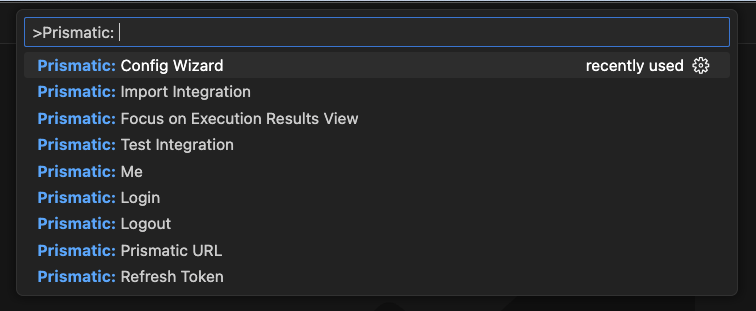
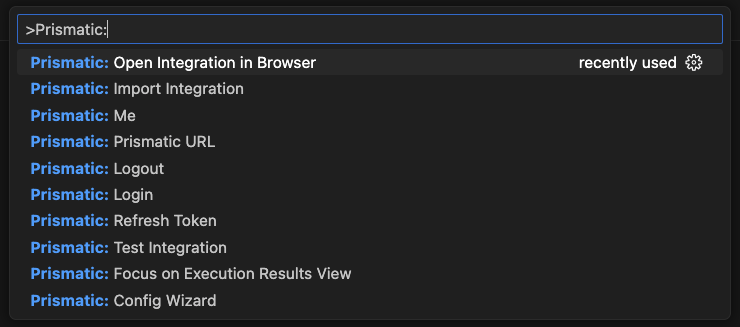
feat: add open integration in browser command

Changed region(s): [[0.0, 0.0, 1.0, 0.955]]

diff --git a/src/extension.ts b/src/extension.ts
@@ -177,6 +177,49 @@ export async function activate(context: vscode.ExtensionContext) {
     context.subscriptions.push(prismRefreshTokenCommand);
 
     /**
+     * This command is used to open the integration in browser.
+     */
+    const integrationOpenInBrowserCommand = vscode.commands.registerCommand(
+      "prismatic.integrations.openInBrowser",
+      async () => {
+        outputChannel.show(true);
+
+        log("INFO", "Starting integration open in browser...");
+
+        try {
+          const workspaceState = await stateManager.getWorkspaceState();
+          const globalState = await stateManager.getGlobalState();
+
+          if (!workspaceState?.integrationId) {
+            throw new Error(
+              "No integration ID found. Please import an integration first.",
+            );
+          }
+
+          const prismaticUrl = globalState?.prismaticUrl ?? CONFIG.prismaticUrl;
+
+          if (!prismaticUrl) {
+            throw new Error(
+              "No Prismatic URL found. Please set the Prismatic URL first.",
+            );
+          }
+
+          // open the integration in browser
+          vscode.env.openExternal(
+            vscode.Uri.parse(
+              `${prismaticUrl}/integrations/${workspaceState.integrationId}/`,
+            ),
+          );
+
+          log("SUCCESS", "Integration opened in browser successfully!", true);
+        } catch (error) {
+          log("ERROR", String(error), true);
+        }
+      },
+    );
+    context.subscriptions.push(integrationOpenInBrowserCommand);
+
+    /**
      * command: prism integrations:import
      * This command is used to import the integration into Prismatic.
      */

diff --git a/README.md b/README.md
@@ -62,6 +62,9 @@ Logs out of your Prismatic account using your globally installed Prismatic CLI (
 #### `Prismatic: Prismatic URL`
 Sets your systems PRISMATIC_URL environment variable for your Prismatic CLI (Prism) then syncs it to the extension. This allows you to change your Prismatic stack environment.
 
+#### `Prismatic: Open Integration in Browser`
+Opens the Code-Native Integration (CNI) in the browser. This is useful for debugging and inspecting the integration from the Prismatic application.
+
 #### `Prismatic: Me`
 Displays details about the currently authenticated Prismatic user, including name, organization, and Prismatic stack environment information using your globally installed Prismatic CLI (Prism).
 
